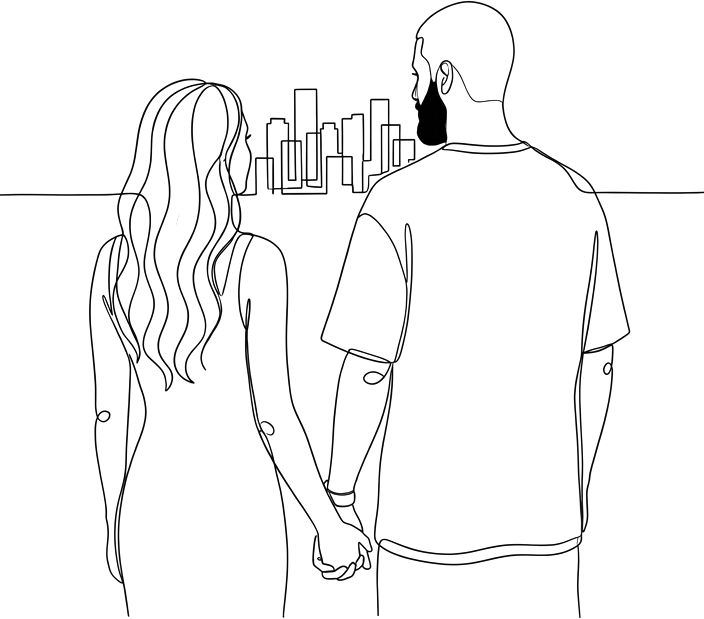
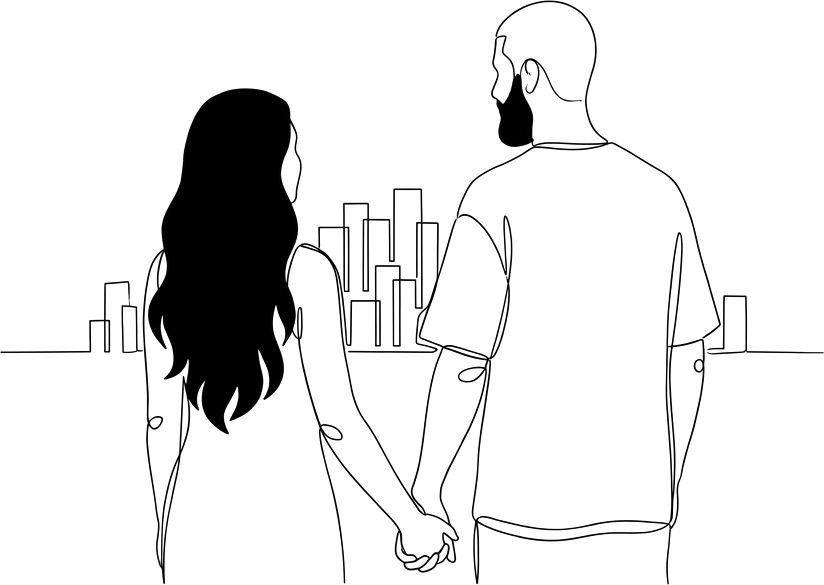
Etapa 2 com o cabelo dela preenchido
As figuras ganham presença no tamanho real, que era o ponto: com o cabelo em
traço as pessoas viravam névoa a 126px de altura.

A versão da praia que veio junto ficou de fora: nela o preenchimento subiu da
barba até o alto da cabeça e o Xand apareceu com cabelo, quando é de cabeça
raspada. O guia passa a avisar desse efeito colateral — pedir preenchimento
tende a fazer o gerador preencher a cabeça junto.

Changed region(s): [[0.0, 0.0, 1.0, 1.0], [0.7188, 0.0308, 0.75, 0.1231], [0.375, 0.9846, 0.4062, 1.0]]

diff --git a/docs/prompts-imagens.md b/docs/prompts-imagens.md
@@ -52,6 +52,11 @@ serem eles, e não um casal genérico.
 
 Isso vale para toda cena onde apareçam. O bloco de estilo abaixo já traz a regra.
 
+**Cuidado com o efeito colateral:** ao pedir preenchimento, o gerador tende a preencher a cabeça
+dele junto com a barba, e o Xand aparece com cabelo. Ele é de cabeça raspada — a mancha preta é
+só a barba. Por isso os prompts trazem `the top and back of his head are clean outline` e
+`man with hair` no negativo.
+
 ## 2. Bloco de estilo — cole em TODOS os prompts
 
 Sempre em inglês: os modelos de imagem entendem melhor e erram menos no traço.
@@ -116,7 +121,7 @@ Use exatamente estes textos, sempre iguais, em toda cena onde a pessoa aparecer:
 
 Monte cada um assim: **`[BLOCO DE ESTILO]` + `SCENE:` + `[NEGATIVO]`**
 
-### Etapa 1 — Tempo de qualidade  ⚠ refazer com cabelo preenchido
+### Etapa 1 — Tempo de qualidade  ⚠ refazer: o preenchimento invadiu a cabeça dele
 
 ```
 SCENE: A couple sitting side by side on the sand at the beach, seen from behind and slightly to
@@ -129,7 +134,7 @@ oversized t-shirt. Relaxed, unhurried, no faces visible.
 
 De costas resolve dois problemas: não depende de semelhança facial e é mais bonito no traço.
 
-### Etapa 2 — Construir o futuro  ⚠ refazer com cabelo preenchido
+### Etapa 2 — Construir o futuro  ✅ pronta
 
 ```
 SCENE: A couple standing side by side, seen from behind, holding hands, looking out toward a
